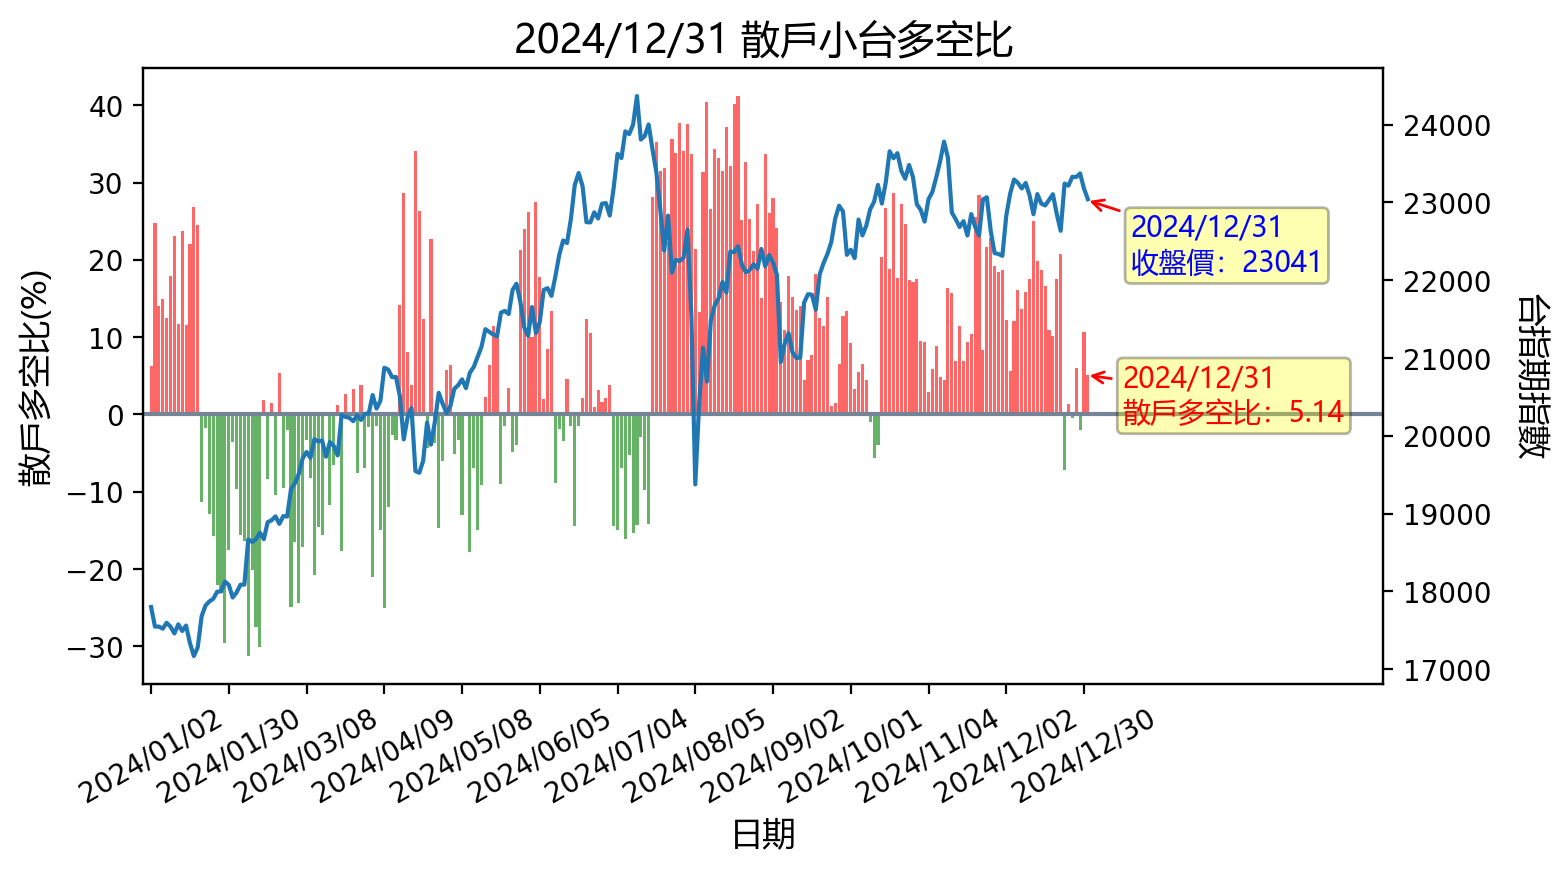
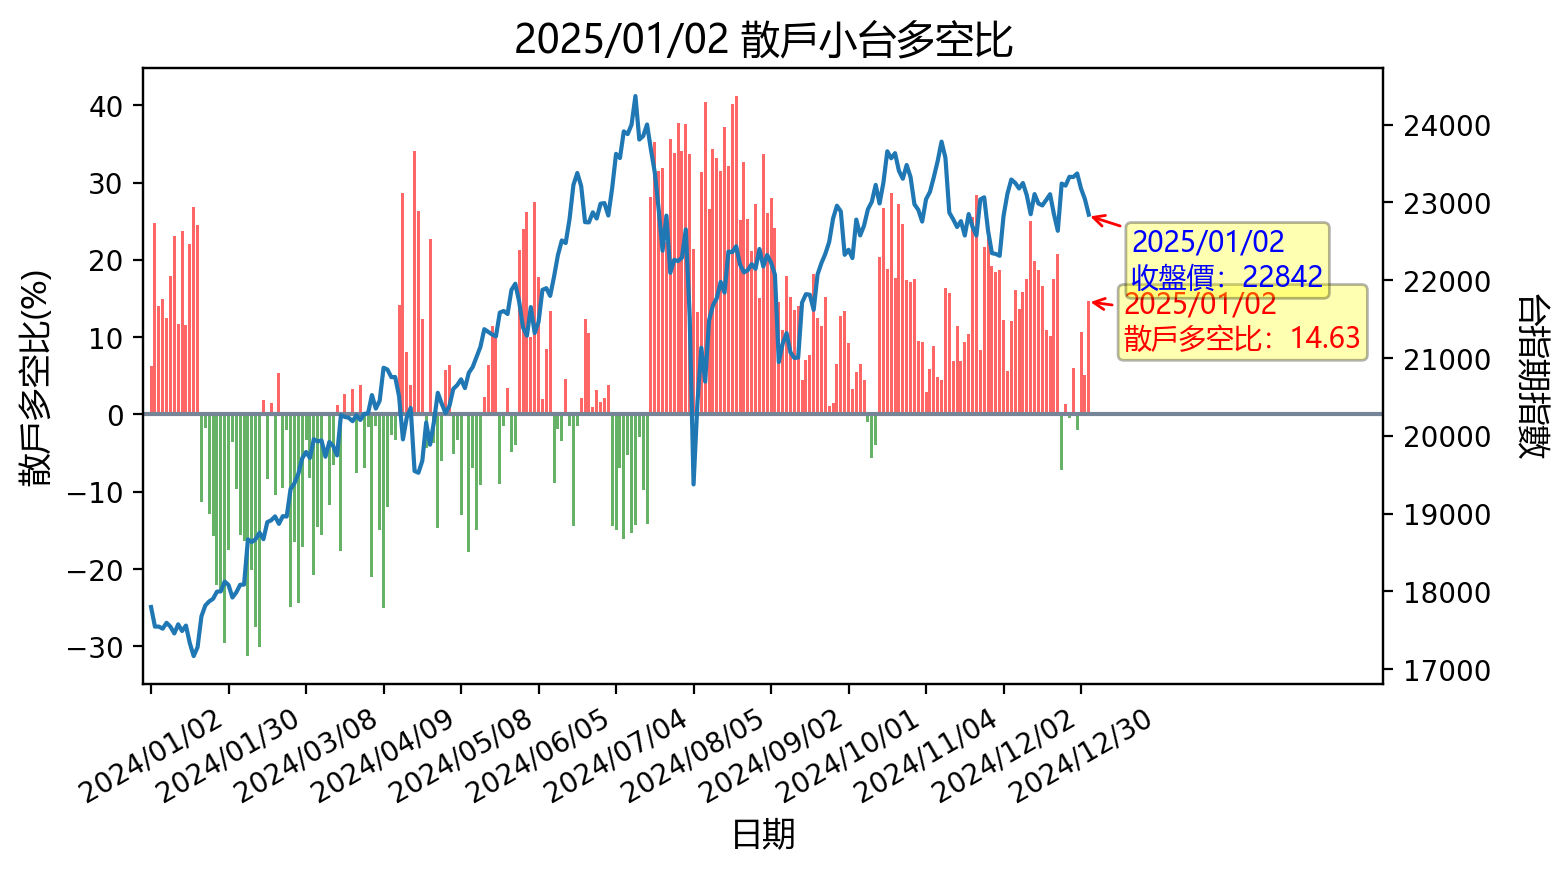
更新時間: Thu Jan  2 16:35:00 CST 2025

diff --git a/README.md b/README.md
@@ -1,12 +1,12 @@
-## 20250101 台指期「預估換倉成本」
+## 20250102 台指期「預估換倉成本」
 ![](images/txfcost.png)
 
-## 20250101 台指期「散戶小台多空比」
+## 20250102 台指期「散戶小台多空比」
 ![](images/bbiri.png)
 
-## 20250101 台指選擇權「Put/Call Ratios」
+## 20250102 台指選擇權「Put/Call Ratios」
 ![](images/pcratio.png)
 
-## 20250101 台指期「大額交易人」
+## 20250102 台指期「大額交易人」
 ![](images/blocktrade.png)
 
